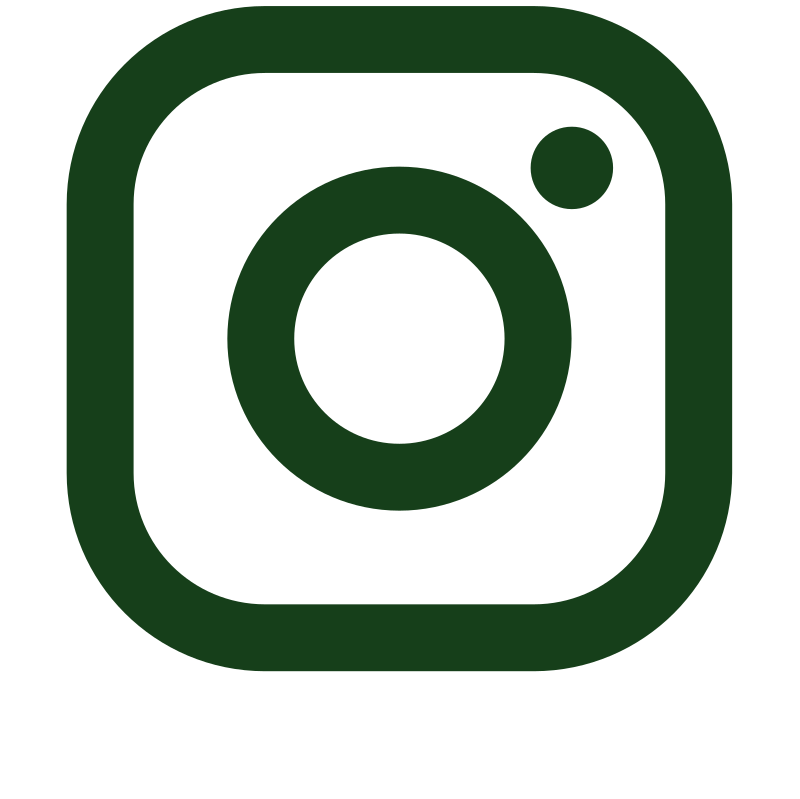
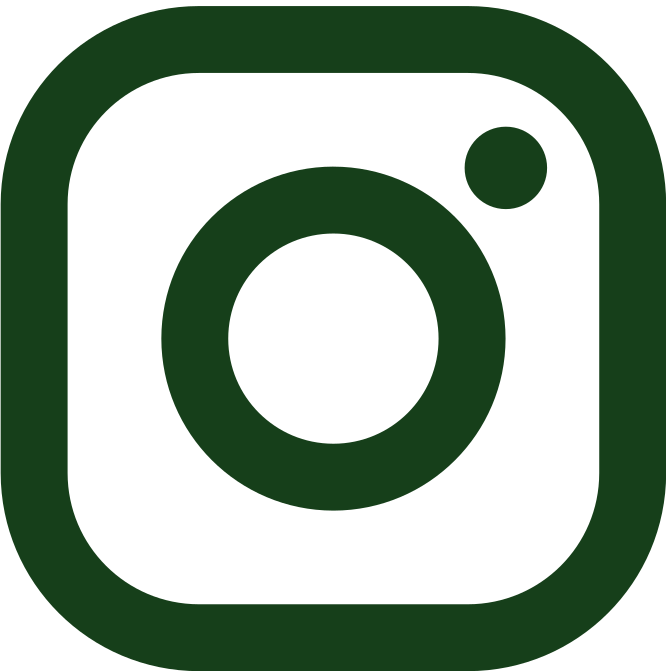
new stripe

diff --git a/index.html b/index.html
@@ -96,8 +96,8 @@
 </main>
 
 <footer>
-  <div style="display: flex; align-items: center; justify-content: center; gap: 10px;">
-    <a href="https://www.instagram.com/grg4schulball.2026/" target="_blank" style="border-bottom: none !important;"">
+  <div style="display: flex; align-items: center; justify-content: center; gap: 8px;">
+    <a href="https://www.instagram.com/grg4schulball.2026/" target="_blank" style="border-bottom: none !important; display: flex; align-items: center;">
       <img src="media/svgviewer-output.png" alt="Instagram" class="social-icon">
     </a>
     <span>© 2026 Schulball der Sir Karl Popper Schule & des Wiedner Gymnasiums</span>

diff --git a/style.css b/style.css
@@ -17,7 +17,7 @@ body {
     animation: fadeIn 2s ease;
 
     background: 
-        url("media/greekstripe1.svg")repeat-x bottom,
+        url("media/greekstripe-1.svg")repeat-x bottom,
         url("media/greekstripe1.svg")repeat-x top,
         linear-gradient(to bottom, #f8f3e8, #efe6d3);
 
@@ -130,7 +130,7 @@ body {
 
     .social-icon {
       width: auto;
-      height: 1em;
+      height: 0.8em;
       object-fit: contain;
       vertical-align: middle;
       transition: 0.3s;
